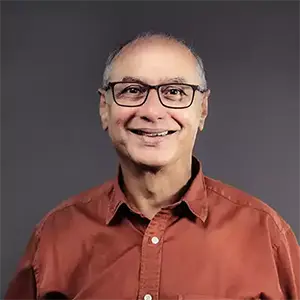
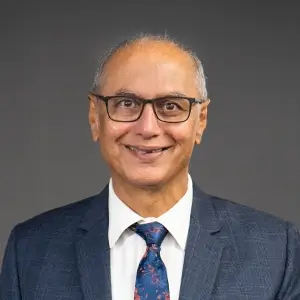
Staff pics updated

diff --git a/src/app/website/about/staff/staff.component.html b/src/app/website/about/staff/staff.component.html
@@ -55,7 +55,7 @@
             <div class="col-md-4 col-sm-12">
               <div class="card card-blog card-plain" style="margin-bottom: 0rem;">
                 <div class="card-image">
-                  <img class="img rounded mx-auto img-raised d-block" src="assets/img/staff/john_t.webp">
+                  <img class="img rounded mx-auto img-raised d-block" src="assets/img/staff/john_c.webp">
                 </div>
                 <div class="card-body mx-auto" style="max-width: 300px;">
                   <h4 class="card-title" style="font-weight: 400;">Ps. John Christos</h4>
@@ -103,7 +103,7 @@
             <div class="col-md-3 col-sm-12">
               <div class="card card-blog card-plain" style="margin-bottom: 0rem;">
                 <div class="card-image">
-                  <img class="img rounded mx-auto img-raised d-block" src="https://placehold.co/200x200/grey/white">
+                  <img class="img rounded mx-auto img-raised d-block" src="assets/img/staff/mike.webp">
                 </div>
                 <div class="card-body mx-auto" style="max-width: 200px;">
                   <h4 class="card-title" style="font-weight: 400;">Michael Fernandez</h4>
@@ -136,7 +136,7 @@
             <div class="col-md-3 col-sm-12">
               <div class="card card-blog card-plain" style="margin-bottom: 0rem;">
                 <div class="card-image">
-                  <img class="img rounded mx-auto img-raised d-block" src="https://placehold.co/200x200/grey/white">
+                  <img class="img rounded mx-auto img-raised d-block" src="assets/img/staff/alyster.webp">
                 </div>
                 <div class="card-body mx-auto" style="max-width: 200px;">
                   <h4 class="card-title" style="font-weight: 400;">Alyster De Rosario</h4>
@@ -169,7 +169,7 @@
             <div class="col-md-3 col-sm-12">
               <div class="card card-blog card-plain" style="margin-bottom: 0rem;">
                 <div class="card-image">
-                  <img class="img rounded mx-auto img-raised d-block" src="https://placehold.co/200x200/grey/white">
+                  <img class="img rounded mx-auto img-raised d-block" src="assets/img/staff/shekinah.webp">
                 </div>
                 <div class="card-body mx-auto" style="max-width: 200px;">
                   <h4 class="card-title" style="font-weight: 400;">Shekinah Rupa</h4>
